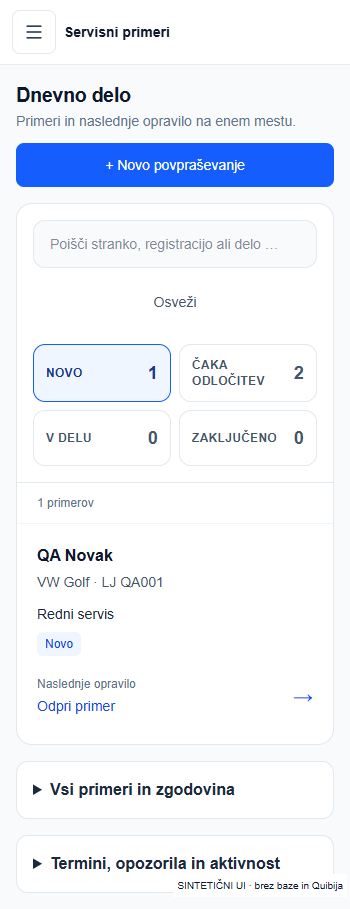
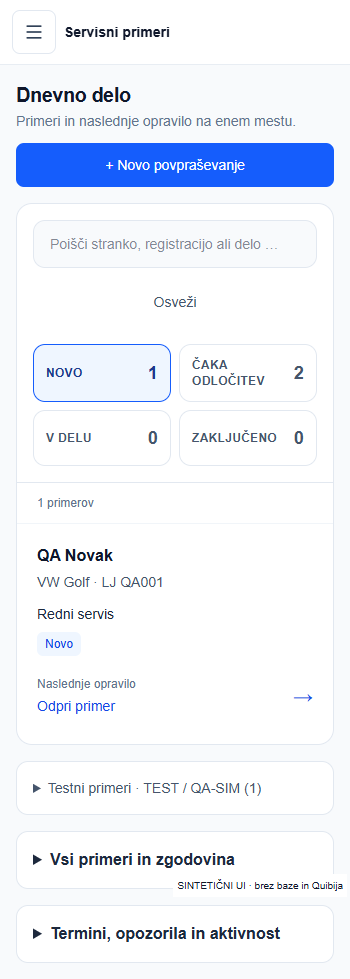
fix: separate synthetic cases from daily workshop work

diff --git a/src/components/dashboard/DashboardPageClient.tsx b/src/components/dashboard/DashboardPageClient.tsx
@@ -1,7 +1,7 @@
 "use client";
 
 import Link from "next/link";
-import {dashboardQueue, filterDashboardQueue, DASHBOARD_GROUPS, type DashboardGroup} from "@/lib/dashboard/intake-queue";
+import {dashboardQueue, isSyntheticOrder, shortNextAction, filterDashboardQueue, DASHBOARD_GROUPS, type DashboardGroup} from "@/lib/dashboard/intake-queue";
 import {useRouter} from "next/navigation";
 import { useEffect, useMemo, useState, useTransition } from "react";
 import type { DashboardPeriodId, DashboardSnapshot, WorkflowStatusId } from "@/lib/dashboard/types";
@@ -28,7 +28,9 @@ export function DashboardPageClient({ initialData }: DashboardPageClientProps) {
   useEffect(()=>{let lastRefresh=Date.now();const refresh=()=>{const active=document.activeElement;if(document.visibilityState!=='visible'||active?.matches('input,textarea,select,[contenteditable="true"]')||Date.now()-lastRefresh<15000)return;lastRefresh=Date.now();startRefresh(()=>router.refresh());};const timer=window.setInterval(refresh,30000);window.addEventListener('focus',refresh);document.addEventListener('visibilitychange',refresh);return()=>{clearInterval(timer);window.removeEventListener('focus',refresh);document.removeEventListener('visibilitychange',refresh)}},[router]);
   const [queueGroup,setQueueGroup]=useState<DashboardGroup>('new');
   const [queueSearch,setQueueSearch]=useState('');
-  const queue=useMemo(()=>initialData.ok?dashboardQueue(initialData.orders):[],[initialData]);
+  const testOrders=useMemo(()=>initialData.ok?initialData.orders.filter(isSyntheticOrder):[],[initialData]);
+  const testIds=new Set(testOrders.map(order=>order.serviceRequestId));
+  const queue=useMemo(()=>initialData.ok?dashboardQueue(initialData.orders.filter(order=>!isSyntheticOrder(order))):[],[initialData]);
   const visibleQueue=filterDashboardQueue(queue,queueGroup,queueSearch);
   const [period, setPeriod] = useState<DashboardPeriodId>("vsi");
   const [statusFilter, setStatusFilter] = useState<WorkflowStatusId | "all">(
@@ -38,7 +40,7 @@ export function DashboardPageClient({ initialData }: DashboardPageClientProps) {
 
   const orders = useMemo(() => {
     if (!initialData.ok) return [];
-    return initialData.orders.filter((o) =>
+    return initialData.orders.filter((o) => !isSyntheticOrder(o)&&
       isDateInPeriod(o.updatedAt, period, now),
     );
   }, [period, now, initialData]);
@@ -55,9 +57,9 @@ export function DashboardPageClient({ initialData }: DashboardPageClientProps) {
     });
   }, [orders]);
 
-  const attention = initialData.ok ? initialData.attention : [];
+  const attention = initialData.ok ? initialData.attention.filter(item=>!testIds.has(item.id)) : [];
 
-  const appointments = initialData.ok ? initialData.appointments : [];
+  const appointments = initialData.ok ? initialData.appointments.filter(item=>!item.simulated&&!testIds.has(item.id)&&!/^(?:QA-SIM(?:\b|[-_])|TEST(?:[-_\s:]|$))/i.test(item.customerName.trim())) : [];
 
   const activity = useMemo(() => {
     if (!initialData.ok) return [];
@@ -115,14 +117,15 @@ export function DashboardPageClient({ initialData }: DashboardPageClientProps) {
           </div>
         </div>
         <p role="status" className="px-5 py-3 text-xs text-slate-500">{visibleQueue.length} primerov{queueSearch.trim()?' za iskanje »'+queueSearch.trim()+'«':''}</p>
-        {visibleQueue.length ? <ul className="divide-y divide-slate-100 border-t border-slate-100">{visibleQueue.map(({order:o,label,href})=><li key={o.serviceRequestId} className="px-5 py-5 transition-colors hover:bg-slate-50/70">
+        {visibleQueue.length ? <ul className="divide-y divide-slate-100 border-t border-slate-100">{visibleQueue.map(item=>{const {order:o,href}=item;return <li key={o.serviceRequestId} className="px-5 py-5 transition-colors hover:bg-slate-50/70">
           <div className="grid gap-3 lg:grid-cols-[minmax(0,1fr)_minmax(0,1fr)_minmax(0,1fr)] lg:items-center lg:gap-6">
             <div className="min-w-0"><p className="font-semibold text-slate-900">{o.customerName}</p><p className="mt-1 text-sm text-slate-600">{o.vehicleMakeModel}{o.registration&&<span className="ml-2 font-medium text-slate-800">{o.registration}</span>}</p></div>
             <div className="min-w-0"><p className="line-clamp-2 text-sm text-slate-800">{o.requestSummary}</p><span className={'mt-2 inline-block rounded-md px-2 py-1 text-xs font-medium '+getStatusBadgeClass(o.status)}>{getStatusLabel(o.status)}</span></div>
-            <Link href={href} className="group flex min-h-11 items-center justify-between gap-3 rounded-lg py-2 text-sm font-medium text-blue-700 focus-visible:outline-2 focus-visible:outline-blue-600"><span><span className="mb-1 block text-xs font-normal text-slate-500">Naslednje opravilo</span>{label}</span><span aria-hidden="true" className="text-xl transition-transform group-hover:translate-x-1">→</span></Link>
+            <Link href={href} className="group flex min-h-11 items-center justify-between gap-3 rounded-lg py-2 text-sm font-medium text-blue-700 focus-visible:outline-2 focus-visible:outline-blue-600"><span><span className="mb-1 block text-xs font-normal text-slate-500">Naslednje opravilo</span>{shortNextAction(item)}</span><span aria-hidden="true" className="text-xl transition-transform group-hover:translate-x-1">→</span></Link>
           </div>
-        </li>)}</ul> : <div className="border-t border-slate-100 px-5 py-12 text-center"><p className="font-medium text-slate-700">{queueSearch.trim()?'Ni zadetkov za to iskanje.':'V tej skupini trenutno ni primerov.'}</p><p className="mt-1 text-sm text-slate-500">{queueSearch.trim()?'Poskusite drugo ime, registracijo ali opis dela.':'Izberite drugo skupino ali dodajte novo povpraševanje.'}</p></div>}
+        </li>})}</ul> : <div className="border-t border-slate-100 px-5 py-12 text-center"><p className="font-medium text-slate-700">{queueSearch.trim()?'Ni zadetkov za to iskanje.':'V tej skupini trenutno ni primerov.'}</p><p className="mt-1 text-sm text-slate-500">{queueSearch.trim()?'Poskusite drugo ime, registracijo ali opis dela.':'Izberite drugo skupino ali dodajte novo povpraševanje.'}</p></div>}
       </section>
+      {testOrders.length>0&&<details className="rounded-xl border border-slate-200 bg-white p-4"><summary className="cursor-pointer text-sm font-medium text-slate-600">Testni primeri · TEST / QA-SIM ({testOrders.length})</summary><p className="mt-2 text-sm text-slate-500">Ločeni od dnevnega dela in števcev. Ti podatki niso izbrisani.</p><ul className="mt-3 divide-y divide-slate-100">{testOrders.map(order=><li key={order.serviceRequestId??order.id} className="py-3 text-sm"><Link className="inline-flex min-h-11 items-center text-blue-700 underline" href={'/dashboard/primeri/'+order.serviceRequestId}>{order.customerName} · {order.vehicleMakeModel} · {order.requestSummary}</Link></li>)}</ul></details>}
       <details className="rounded-xl border border-slate-200 bg-white p-4">
         <summary className="cursor-pointer font-semibold text-slate-800">Vsi primeri in zgodovina</summary>
         <p className="my-3 text-sm text-slate-600">Dodatni pregled po obdobju in statusu, vključno z zaključenimi primeri. Skupine zgoraj prikazujejo primere iz vseh obdobij.</p>

diff --git a/src/components/dashboard/EstimateComposer.tsx b/src/components/dashboard/EstimateComposer.tsx
@@ -45,7 +45,7 @@ export function EstimateComposer({serviceRequestId,mode,offerPrepared=true,write
   {locked&&<section role="alert" className="space-y-2 rounded border border-amber-300 p-3 text-sm"><p>{operationState==='verified'?'Predračun že obstaja.':'Prejšnji poskus ustvarjanja zahteva pregled.'} Ponovno ustvarjanje je ustavljeno.</p>{['uncertain','dispatching'].includes(operationState??'')&&<button type="button" disabled={pending} onClick={()=>{if(lock.current)return;lock.current=true;start(async()=>{try{const r=await reconcileQuibiEstimate(serviceRequestId);setMessage(r.message);if(r.ok)router.refresh();}finally{lock.current=false;}});}} className="min-h-11 rounded border px-3 py-2">Preveri obstoječi dokument</button>}</section>}
   {document&&<section role="status" className="space-y-2 rounded border border-green-300 p-3"><p>Predračun #{document.id} obstaja v Quibiju. Ni poslan.</p><a className="block text-blue-700 underline" href={`/dashboard/stranke/${document.customerId}/quibi/predracuni/${document.id}`}>Odpri predračun</a>{!document.linked&&<p>Povezava s primerom zahteva pregled. Ne ustvarjajte novega dokumenta.</p>}</section>}
   {!configured&&<p role="alert" className="text-sm text-amber-900">Quibijevih podatkov za pripravo trenutno ni mogoče prebrati. Osvežite stran ali preverite dostop do Quibija; podatkov ne vnašajte znova.</p>}
-  {configured&&!catalogOptions.length&&<p role="status" className="text-sm text-amber-900">Storitve so pripravljene spodaj. Dopolnite manjkajoče količine in cene; katalog trenutno ni na voljo.</p>}
+  {configured&&!ready&&!catalogOptions.length&&<p role="status" className="text-sm text-amber-900">Storitve so pripravljene spodaj. Dopolnite manjkajoče količine in cene; katalog trenutno ni na voljo.</p>}
   <fieldset disabled={pending||dispatchStarted} className="min-w-0 space-y-4">
   {!ready?<>
    <input type="hidden" name="catalogLines" value={JSON.stringify(rows)}/><input type="hidden" name="unitId" value={catalogOptions.find(o=>o.key===rows[0]?.key)?.unitId??rows[0]?.unitId??''}/><input type="hidden" name="vatId" value={catalogOptions.find(o=>o.key===rows[0]?.key)?.vatId??rows[0]?.vatId??''}/>

diff --git a/src/lib/dashboard/intake-queue.ts b/src/lib/dashboard/intake-queue.ts
@@ -66,3 +66,13 @@ export function filterDashboardQueue(rows:DashboardQueueItem[],group:DashboardGr
  const query=search.trim().toLocaleLowerCase('sl-SI');
  return rows.filter(row=>row.group===group&&(!query||[row.order.id,row.order.customerName,row.order.registration,row.order.vehicleMakeModel,row.order.requestSummary].join(' ').toLocaleLowerCase('sl-SI').includes(query)));
 }
+
+
+/** Explicit test markers only: normal words/names containing 'test' are not hidden. */
+export function isSyntheticOrder(order:ServiceOrderDemo){return order.synthetic===true||[order.customerName,order.requestSummary].some(value=>/^(?:QA-SIM(?:\b|[-_])|TEST(?:[-_\s:]|$))/i.test(value.trim()));}
+export function shortNextAction(item:DashboardQueueItem){
+ const anchor=item.href.split('#')[1];
+ if(item.group==='done')return 'Odpri primer';
+ if(item.order.nextActionKind==='review_quibi_mismatch')return 'Preveri dokument';
+ return ({podatki:'Preveri podatke','quibi-povezava':'Preveri povezavo',predracun:'Pripravi predračun','pregled-predracuna':'Preglej predračun',odobritev:'Zabeleži odgovor',termini:'Uredi dogovor',popravilo:item.group==='work'?'Odpri delo':'Preglej delo','objavljena-cena':'Preglej storitev'} as Record<string,string>)[anchor]??'Odpri primer';
+}

diff --git a/src/lib/dashboard/intake-queue.test.ts b/src/lib/dashboard/intake-queue.test.ts
@@ -68,3 +68,11 @@ test('dashboard attention and mismatches stay visible as decisions even after bo
  const rows=dashboardQueue([order('attention','termin_potrjen',{requiresAttention:true}),order('mismatch','aktivno_popravilo',{nextActionKind:'review_quibi_mismatch'}),order('unlinked','zakljuceno',{serviceRequestId:undefined})]);
  assert.deepEqual(rows.map(r=>r.group),['decision','decision']);assert.equal(rows.length,2);
 });
+
+
+import {isSyntheticOrder,shortNextAction} from './intake-queue.ts';
+test('only explicit QA-SIM/TEST markers leave normal daily work; data stays accessible',()=>{
+ for(const patch of [{customerName:'TEST-AUTOSERVIS-SELAN-1'},{requestSummary:'QA-SIM-PR19'},{synthetic:true}])assert.equal(isSyntheticOrder(order('x','novo',patch)),true);
+ for(const customerName of ['QA Novak','Testar Janez','Atest d.o.o.'])assert.equal(isSyntheticOrder(order('x','novo',{customerName})),false);
+ const rows=dashboardQueue([order('x','priprava_ponudbe',{nextActionKind:'review_estimate'})]);assert.equal(shortNextAction(rows[0]),'Preglej predračun');
+});

diff --git a/src/lib/dashboard/adapt-dashboard.ts b/src/lib/dashboard/adapt-dashboard.ts
@@ -13,6 +13,7 @@ export type ServiceRequestRow = {
   vehicle_id: string | null;
   status: string;
   summary: string;
+  problem_description?: string|null;
   next_action: string | null;
   attention_needed: boolean;
   attention_reason: string | null;
@@ -72,6 +73,7 @@ export function adaptServiceRequestToOrder(
     vehicleMakeModel: vehicleMakeModel(vehicle),
     registration: vehicle?.registration_current?.trim() || undefined,
     requestSummary: row.summary,
+    synthetic:[row.summary,row.problem_description,customer?.display_name].some(value=>/^(?:QA-SIM(?:\b|[-_])|TEST(?:[-_\s:]|$))/i.test(value?.trim()??'')),
     intakeConnectionLabel:stepInput.intakeConnectionLabel,
     status: uiStatus,
     nextActionLabel: nextCaseStep({ ...stepInput, status: row.status }).label,

diff --git a/src/lib/dashboard/load-dashboard-snapshot.ts b/src/lib/dashboard/load-dashboard-snapshot.ts
@@ -70,6 +70,7 @@ export async function loadDashboardSnapshot(): Promise<DashboardSnapshot> {
           "vehicle_id",
           "status",
           "summary",
+          "problem_description",
           "next_action",
           "attention_needed",
           "attention_reason",

diff --git a/src/lib/dashboard/types.ts b/src/lib/dashboard/types.ts
@@ -33,6 +33,7 @@ export interface ServiceOrderDemo {
   vehicleMakeModel: string;
   registration?: string;
   requestSummary: string;
+  synthetic?: boolean;
   intakeConnectionLabel?:string;
   status: WorkflowStatusId;
   nextActionLabel: string;

diff --git a/docs/tadej-p0-postopek.md b/docs/tadej-p0-postopek.md
@@ -1,77 +1,24 @@
-# Tadej: od novega povpraševanja do naloga
+# Tadej: vsakodnevno delo
 
-**Stanje 22. 10. 2026:** navodila za kodo v tem PR; trenutni naslov in commit DEV Previewa sta navedena v opisu PR. Dejanska sintetična Quibi DEV veriga je potrjena: predračun #2176924 → delovni nalog #2176925 → račun #2176926, vsak 45,99 EUR; testno pošiljanje #277127 je končalo s stanjem failed. Celoten prijavljeni uporabniški postopek ostaja nepreverjen. Spodnji posnetki so dejanski Playwright posnetki delovnega prostora in obstoječih komponent obrazcev v izoliranem prikazu; niso posnetki prijavljenega primera ali dokaz ustvarjenih dokumentov.
+Odpri [DEV aplikacijo](https://selan-dev-pr19-azalar7-langs-projects.vercel.app/dashboard). Ta različica uporablja Quibi DEV. Ni produkcija.
 
-[Aktualni dejanski rezultat, nalog/račun in blokade Quibi DEV](qa/selan-estimate-workspace/quibi-business-2026-10-22.md).
+1. Na nadzorni plošči izberi **Novo**, **Čaka odločitev**, **V delu** ali **Zaključeno**. Išči po stranki, vozilu ali delu. Odpri primer oziroma njegovo naslednje opravilo.
+2. V primeru so na vrhu stranka, vozilo, želje stranke in pripravljeni podatki. Glavni gumb odpre trenutno opravilo. Če osnovni podatki še niso potrjeni, uredi samo manjkajoče podatke istega primera.
+3. Pri predračunu so zahtevane storitve že razdeljene v vrstice. Zanesljiva ujemanja dobijo Quibijeve cene. Če katalog ni na voljo, storitve ostanejo kot proste postavke: dopolni manjkajočo količino in dogovorjeno ceno. Aplikacija cen in neznanih količin ne ugiba. Enota, DDV, vrsta prodaje in skladišče se prevzamejo iz potrjenih nastavitev.
+4. Izberi **Preglej predračun**, nato **Ustvari predračun**. Podatki in zneski se preverijo v ozadju. Tega istega pregleda ni treba ponovno potrjevati po uspešnem ustvarjanju. Če ustvarjanje ni omogočeno, piše **Samo predogled – ustvarjanje v Quibiju ni omogočeno**.
+5. Ustvarjen predračun še ni poslan in še ni odobren od stranke. Quibi DEV e-pošte ne pošilja. Dejanski odgovor zabeleži ločeno pri **Zabeleži odobritev stranke** z dokazljivo referenco. Za test uporabljaj samo izrecno označeno odločitev **QA-SIM** na sintetičnem primeru.
+6. Po odobritvi izberi **Ustvari delovni nalog**. Postavk ne prepisuj: prevzamejo se iz preverjenega predračuna. Vodja dodeli delo mehaniku. Mehanik v **Moje delo** izbere **Začni delo**, doda opombo ali zasebno fotografijo in ob koncu izbere **Končaj delo · predaj vodji**. To še ne izda računa, ne potrdi plačila ali prevzema. Vodja opravi poslovni pregled, račun in zaključek po obstoječem postopku.
 
-## Priprava predračuna: običajna pot
+Ročno povezovanje ID-ja je samo v **Napredno – poveži obstoječ predračun**, kadar že imaš dokument izven aplikacije. Ni obvezno. Pri neznanem izidu ne ustvarjaj ali pošiljaj znova; preveri obstoječi poskus.
 
-1. Odpri **Pripravi predračun**. Stranka in vozilo ostaneta iz potrjenega primera. V enem urejevalniku so vse navedene zahteve, postavke, količine, cene, popusti in predvideni skupni znesek. Jasna ujemanja iz dostopnega Quibi kataloga so že izpolnjena; pri nejasni vrstici izberi predlog ali dopolni prosto storitveno postavko. Če katalog ni na voljo, ostanejo vse zahtevane storitve pripravljene, manjkajoči količina in cena pa prazni.
-2. Popravi le potrebno količino ali ceno. Različni ceni sta prikazani pri postavki. Cena zalogovnega artikla ostane omejena na preverjeno pot Quibi; tega opozorila ne obidi z drugim povpraševanjem.
-3. Klikni **Preglej predračun**. Aplikacija sama pripravi obstoječe podatke in preveri aktualne cene; ločena priprava in ponovno potrjevanje stranke/vozila nista potrebna. V pregledu lahko izbereš **Uredi postavke**.
-4. Če je ustvarjanje omogočeno, klikni **Ustvari predračun**. Če piše **Samo predogled – ustvarjanje v Quibiju ni omogočeno**, dokument ni ustvarjen. Pregled in ustvarjanje ne pošljeta predračuna stranki.
+## Kaj je dejansko preverjeno
 
-Obstoječi predračun, ustvarjen zunaj aplikacije, povežeš samo po potrebi v zaprtem razdelku **Napredno – poveži obstoječ predračun**. To ni obvezna pot priprave. Pri neznanem izidu CREATE izberi **Osveži in preveri izid**; novega dokumenta ne ustvarjaj znova.
+V Quibi DEV so s tremi prostimi storitvami dejansko ustvarjeni, ponovno prebrani in povezani **predračun #2176929 → nalog #2176930 → račun #2176931**, vsak **65,00 EUR**. Cene 30/20/15 EUR in količine 1 so izrecni sintetični testni vnosi, ne servisni cenik. Odobritev je shranjena kot QA-SIM, zaključek dela v API preizkusu je sintetična testna predpostavka. Ni dokaz dejanskega popravila ali odgovora resnične stranke. Nič ni poslano.
 
-Naslednji posnetek je hidriran sintetični preizkus dejanskega urejevalnika, ne posnetek prijavljene gostovane seje:
+**Celoten prijavljeni E2E, vključno s shranjevanjem mehanikovih opomb/fotografij in zaključkom prek dejanske seje, ostaja nepreverjen.** Spodaj so posnetki resničnih komponent v izoliranem sintetičnem prikazu. [Rezultati in omejitve](qa/selan-redesign/README.md).
 
-![En urejevalnik pri 390 px](qa/selan-estimate-workspace/editor-390.png)
+![Dnevno delo, sintetični prikaz](qa/selan-redesign/dashboard-1440.png)
 
-[Preverjanje in točne omejitve prijavljenega pregleda](qa/selan-estimate-workspace/README.md).
+![Predračun s prosto storitvijo, sintetični prikaz 390 px](qa/selan-estimate-workspace/free-service-390.png)
 
-1. Na nadzorni plošči v **Dnevno delo** poišči primer in klikni njegovo naslednje opravilo. Čakalna vrsta prikazuje vse odprte primere; filtriraj jih po vrsti dela ali išči po stranki, registraciji, številki oziroma storitvi. **Osveži dnevno delo** ponovno prebere trenutno stanje. Spodnji pregled po obdobju je dodatni pregled, tudi za zaključene primere. Na vrhu primera je **Kaj je naslednje?**, en moder gumb za naslednje opravilo. Nad opravili je vedno viden povzetek: stranka, vozilo, želja stranke in seznam manjkajočih osnovnih podatkov. Trenutni obrazec je takoj pod povzetkom, označen z **Nadaljujte tukaj**. Ko se po shranjevanju osveži stanje primera, se naslednje opravilo preračuna iz tega stanja; sam klik gumba še ne potrdi uspeha. Ostala opravila so zložena in jih lahko odpreš. Gumb te odpelje do ustreznega obrazca; sam še ničesar ne pošlje ali ustvari.
-2. Če piše **Preveri stranko in vozilo**, preveri povezavo s Quibijem. Primerjaj stranko in pravo vozilo. Če ustvarjanje ali povezava nista dovoljena, upoštevaj prikazani razlog; potreben je lastnik ali skrbnik.
-3. Pri **Preveri podatke** preveri opis, kontakt in vozilo. V Tadejevem pregledu označi potrditev in klikni **Sprejmi primer za pripravo ponudbe**. To sprejme primer in pripravi podatke; še ne ustvari predračuna.
-4. **Pripravi predračun** odpre enoten urejevalnik zgoraj. Ob kliku **Preglej predračun** se priprava podatkov izvede samodejno. Predogled ni dokument; ustvarjanje potrdiš šele iz pregleda, kadar je omogočeno.
-5. **Preglej in potrdi predračun** odpre dejanske postavke, znesek in pregled. Potrdi **Odobri predračun**. S tem dokument še ni poslan in stranka še ni naročila popravila.
-6. **Pošlji predračun** je ločeno dejanje in zahteva omogočen SEND ter preverjeno vsebino in prejemnika. Quibi DEV e-pošte ne pošilja; v DEV nadaljuj z ločeno zabeleženim odgovorom oziroma označeno sintetično odobritvijo QA-SIM. Dokument zato ni označen kot poslan. Če pošiljanje ni omogočeno, dokument ni poslan. Pri neznanem izidu ne ponavljaj pošiljanja.
-7. **Zabeleži odobritev stranke** odpre odločitev za to različico predračuna. Vnesi sledljiv dejanski odgovor, tudi po telefonu, in potrdi odločitev. Status pošiljanja ni odobritev. Pri sintetičnih testih uporabljaj samo označeno simulacijo QA-SIM.
-8. Po veljavni odobritvi **Pripravi delovni nalog** oziroma **Ustvari delovni nalog** odpre obstoječi poslovni obrazec. Prevzame podatke preverjenega predračuna. Pred ustvarjanjem preveri pogoje. Če WRITE ni omogočen, nalog ni ustvarjen. Ko nalog že obstaja, gumb vodi na njegov pregled oziroma popravilo.
-
-**Če obstaneš:** rumeno pojasnilo pod glavnim gumbom pove razlog in naslednjo pot. Podatkov, ki so že shranjeni, ne vnašaj v novo povpraševanje. Dnevniki, dokumenti, AI in tehnična aktivacija ostajajo dostopni v podrobnostih. Ročni termini so ločeni; ta popravek ne uvaja novega sistema terminov.
-
-## Mehanik: dodeljeno delo
-
-Mehanik v **Moje dodeljeno delo** odpre svoj dodeljeni primer. Povzetek pokaže vozilo in registracijo, stanje dela ter naslednje opravilo za mehanika. Pod njim sta **Težava** in, če je v primeru vneseno, **Zahtevano delo in navodila**. Postavke dela in materiala se berejo iz preverjenega Quibijevega naloga; če sveže branje ni mogoče, to prikaz pove. Tak prikaz ni potrditev razpoložljivosti delov.
-
-Izberi **Začni delo** za začetek. V **Zabeleži opravljeno delo** izberi napredek, dodaj opombo in klikni **Shrani napredek in opombo**. Fotografiranje oziroma izbira iz galerije je takoj za tem, pred zgodovino zapiskov. Dodaj opis in klikni **Shrani fotografijo**; za več fotografij ponovi. Fotografije so zasebne. Če nalaganje ni potrjeno, preveri obstoječo datoteko v prikazanem seznamu nedokončanih nalaganj, preden jo nalagaš znova.
-
-Ko je delo opravljeno, izberi **Zaključi delo** oziroma shrani napredek **Delo opravljeno**. To preda delo vodji; ne izda računa, ne potrdi plačila ali prevzema in ne pošlje sporočila. Naslednje navodilo mehaniku ostaja vezano na njegovo delo; poslovni pregled in zaključek ureja vodja. Pri zaključenem primeru sta običajna obrazca za napredek in novo fotografijo skrita; ponovno obravnavo lahko odpre vodja.
-
-## Novi predogledi primera in mehanika
-
-Naslednja posnetka sta **hidrirana sintetična predogleda komponent** pri širini 390 px. Prikazujeta povzetek primera oziroma mehanikov povzetek z navodilom za naslednje opravilo. **Nista posnetka prijavljene dejanske aplikacije. Celoten E2E z dejansko aplikacijo, zaledjem, bazo in Quibijem ostaja nepreverjen.**
-
-![Povzetek primera, sintetični predogled 390 px](qa/selan-p0-2026-10-22/followup/case-390.png)
-
-![Mehanikovo delo, sintetični predogled 390 px](qa/selan-p0-2026-10-22/followup/mechanic-390.png)
-
-## Posnetki izolirane komponente
-
-Novo povpraševanje, 1440 px:
-
-![Novo povpraševanje, izolirani UI](qa/selan-p0-2026-10-22/new-1440.png)
-
-Novo povpraševanje, 350 px:
-
-![Glavni gumb pri 350 px, izolirani UI](qa/selan-p0-2026-10-22/new-350.png)
-
-Nepotrjena povezava vozila:
-
-![Pojasnilo blokade, izolirani UI](qa/selan-p0-2026-10-22/identity-390.png)
-
-Priprava naloga ob izključenem WRITE:
-
-![Priprava ni ustvarjen nalog, izolirani UI](qa/selan-p0-2026-10-22/order-390.png)
-
-Priložen je [kratek video UX navigacije](qa/selan-p0-2026-10-22/ui-navigation.webm). Prikazuje štiri ločena sintetična stanja in odpiranje obrazcev; poslovni gumbi so v prikazu izključeni. **To ni video dokončanega postopka ali E2E.** [Dokazi in omejitve preverjanja](qa/selan-p0-2026-10-22/README.md).
-
-## Trenutni obrazci po kliku glavnega gumba
-
-![Sprejem istega primera, 350 px](qa/selan-p0-2026-10-22/new-form-350.png)
-
-![Priprava predračuna, sintetični vhodi](qa/selan-p0-2026-10-22/prepare-form-1440.png)
-
-![Obstoječi obrazec Quibi naloga, WRITE izključen](qa/selan-p0-2026-10-22/order-form-390.png)
-
-Lokalni UX predogled brez poslovnih zapisov: `node scripts/qa-case-journey.mjs --serve`, nato `http://127.0.0.1:47866/?case=new`. Prikaz ni prijavljena DEV aplikacija.
+![Mehanikovo delo, sintetični prikaz 350 px](qa/selan-redesign/mechanic-350.png)

diff --git a/docs/qa/selan-redesign/README.md b/docs/qa/selan-redesign/README.md
@@ -1,25 +1,64 @@
 # PR #19 – poenostavitev delovnega prostora
 
-Nadzorna plošča: Novo, Čaka odločitev, V delu, Zaključeno; eno iskanje in naslednje opravilo pri primeru. Primer: povzetek, zahtevane/pripravljene storitve, eno glavno dejanje; ostale vsebine ostanejo zložene. Mehanik: vozilo, dodeljeno delo, začetek, opomba/fotografija in zaključek.
+**Aktualni Preview:** https://selan-dev-pr19-azalar7-langs-projects.vercel.app/dashboard
 
-Predračun ohrani vse zahtevane storitve. Kadar katalog nima zanesljive postavke, uporabnik dopolni prosto storitev, manjkajočo količino in ceno. Cene niso ocenjene. Strežnik ponovno preveri enote, DDV, zneske in identiteto ter ohrani dnevnik proti dvojnemu CREATE. Privzete nastavitve so veljavne samo, če obstajajo v svežih Quibijevih šifrantih.
+Runtime commit `4534563b34ce63fbcd86a24c80b7562b3cca24db`; deployment `dpl_GAFtXJZWzBKfA8RoNcrqeWtdPVKf`, READY. Preverjena ekipa `team_2OC48hyth331W4Z02Cei2ZTL` / `azalar7-langs-projects`, projekt `prj_OSpIMwU9zkrcImKhGxpaq8PnrgUU` / `avtoservis-selan-dev`. Stabilni DEV alias kaže na ta deployment. Kasnejši commiti vsebujejo le dokazila/teste/navodila.
 
-DEV pošiljanje ni pogoj za nadaljevanje. Dokument ni označen kot poslan; dejanska ali označena sintetična odločitev se zabeleži ločeno. Pošiljanje 277127 ni ponovljeno.
+## Kaj sedaj opravi Selan
 
-## Dokazi in omejitve
+Štiri skupine, eno iskanje in en vnos na dashboardu. Primer pokaže zahtevano delo, pripravljene podatke in eno naslednje opravilo; brez velikih sedmih faz. Sekundarni podatki ostajajo zloženi. Mehanik vidi vozilo, delo in neposredna začetek/zaključek.
 
-- 21 testov urejevalnika in strežniških vrstic: uspešno, vključno s tremi prostimi storitvami brez branja kataloga, napačnimi enotami/DDV, praznimi cenami/količinami in preračunom zneskov.
-- 42 scenarijev primera pri 1440/390/350 px: uspešno; [rezultati](../selan-p0-2026-10-22/browser-results.json).
-- Posnetki izoliranih dejanskih komponent uporabljajo izključno sintetične podatke in niso dokaz prijavljenega E2E.
-- Prijavljeni uporabniški E2E ostaja nepreverjen: povezava do uporabnikove prijavljene IAB seje ni dostopna avtomatizaciji; ločen brskalnik nima seje. To ni trditev, da uporabnik nima dostopa.
-- Raziskava Evoca ni bila najdena v dostopnih projektnih dokumentih; nobena ugotovitev ni pripisana Evoci.
+Predračun ohrani vse zahtevane storitve. Zanesljiva ujemanja uporabijo katalog; ostale postanejo proste storitve z manjkajočo količino/ceno. Ni prepisovanja stranke/vozila ali obveznega ID-ja dokumenta. Potrjen pregled istega zahtevka se po uspešnem CREATE ponovno uporabi. Odločitev stranke ostaja ločena.
+
+## Dejanski Quibi DEV preizkus – 22. 10. 2026, 19:17 UTC
+
+[Strojni rezultat iz Vercel build loga](quibi-dev-free-result.json).
+
+Sintetični primer `c7156f6e-76ca-48b3-8cc0-202610220040`, ista preverjena sintetična stranka/vozilo kot predhodni DEV preizkus. Tri PROSTE vrstice: servis vozila, pregled pred tehničnim, pregled zavor; izrecne operatorske testne bruto cene 30/20/15 EUR, količine 1. To niso ocenjene ali katalogizirane servisne cene.
+
+| Dokument | Dejanski ID | Številka | Znesek | Stanje |
+|---|---|---|---|---|
+| Predračun | 2176929 | 281/2026 | 65,00 EUR | verified, povezan |
+| Delovni nalog | 2176930 | 271/2026 | 65,00 EUR | verified, povezan |
+| Račun | 2176931 | DELAVNICA-A-26000260 | 65,00 EUR | verified, povezan |
+
+CREATE, ponovno branje vsebine/cen/enot/DDV/identitete in povezava dokumentov so dejanski API/DB postopki. Interni pregled in **izrecno sintetična QA-SIM odobritev** sta shranjena prek obstoječih RPC. Nobene dostave, dejanskega odgovora stranke, dejanskega popravila ali plačila nismo potrdili. Račun uporablja izrecno sintetično predpostavko zaključenega dela; mehanikova prijavljena pot ni del tega API preizkusa.
+
+### Popravljena integracijska napaka
+
+[Quibijeva dokumentacija](https://navodila.quibi.net/za-razvijalce/) za proste vrstice navaja `cenaZDDV` kot neto ceno enote. Dejanski DEV je to polje prezrl in shranil ničle. `cena` ni pomagala; izrecni `cenaBrezDDV` je popravil isti znani sintetični predračun 2176927 na 65,00 EUR. Skupni gradnik sedaj v nespremenljiv zahtevek vključi **oba enaka neto podatka**, zavrne nasprotujoča podatka in še vedno preveri dejanski rezultat. Nato je NOV CREATE 2176929 uspel brez popravljanja dokumenta.
+
+Prvotni diagnostični sintetični primer `...0030`: predračun 2176927 je po preverjenem popravku verified, začetni neuspeli cenovni UPDATE ostaja uncertain kot revizijska sled; prvotni nalog 2176928 ostaja uncertain zaradi cenovne razlike in ni veljaven dokaz uspeha. Novega CREATE za ta isti nalog nismo ponavljali. Uspešna celotna dokumentna veriga zgoraj pripada ločenemu, jasno označenemu končnemu testnemu primeru `...0040`.
+
+`GET /api2/sifranti` HTTP 500 ostaja težava ponudnika; razpoložljivi cenik ne vsebuje vseh treh zahtevanih storitev. Fallback prostih postavk omogoča nadaljevanje brez ugibanja cen. [Pripravljeno tehnično sporočilo, ni poslano](../selan-estimate-workspace/quibi-developer-message.md).
+
+Quibi DEV po pojasnilu uporabnika ne pošilja e-pošte. SEND je v novem Previewu 0, WRITE DEV 1 po obstoječi odobritvi; produkcijska in lokalna WRITE/SEND sta 0. Pošiljanje 277127 ni ponovljeno. Dokumenti niso označeni kot poslani.
+
+## Preverjanje in posnetki
+
+- 34 testov pogodb, priprave, prenosa vrstic in poslovnih dokumentov: uspešno, tudi cenovni polji, zaokroževanje, zaščita pred dvojnim CREATE, neznani izidi in napačna identiteta.
+- 15 testov naslednjega opravila, 11 testov vrste primerov in 10 urejevalnika: uspešno.
+- TypeScript trenutnih projektnih izvorov in gostovani Next build: uspešno. Lokalni začasni TS config izključi samo generirane deployment arhive iz preverjanja. ESLint spremenjenih komponent in Quibi poti: uspešno.
+- [42 scenarijev primera](../selan-p0-2026-10-22/browser-results.json) pri 1440/390/350: uspešno; en CTA, pravilni obrazci, fokus, zaznamki, brez prelivanja.
+- [Nadzorna plošča in mehanik](shell-browser-results.json): 6 prikazov pri 1440/390/350, brez prelivanja/napak strani; začetek ter zaključek z opombo sta preverjena v sintetičnem UI; interakcije uporabljajo sintetične nadomestke strežniških dejanj.
+- [Urejevalnik predračuna](../selan-estimate-workspace/browser-results.json): 1440/390/350, ena običajna forma, ohranjene storitve, pregled proste vrstice, brez ponovnih checkboxov, brez prelivanja.
+- [Dejanska prijavna stran novega Previewa](preview-login.png): zaščiteni dashboard preusmeri neprijavljeno testno sejo na /login. To ni Vercel zaščitna prijava.
+
+**Celoten prijavljeni uporabniški E2E ostaja NEPREVERJEN.** Uporabnik ima svojo prijavljeno IAB sejo; njene avtomatizacijske povezave ni mogoče uporabiti. Ločen Playwright nima seje. Ni dokazov o dejanski oddaji novega spletnega povpraševanja, mehanikovem shranjevanju opomb/fotografij in zaključku prek prijavljenega brskalnika v tej izvedbi. API dokumentna veriga in izolirane UI interakcije zgoraj so ločena dokaza.
+
+Evoca raziskava je bila 23. 10. najdena in prebrana na `C:/Users/Admin/avtoservis-selan/docs/evoca-rea-ux-audit.md`. Notranji B2B UI ni preverjen; promocijskih zaslonov ne kopiramo. Upoštevani so predlogi za en primarni korak, manj podvojenega vnosa in ločen mobilni pogled. Ni novih odvisnosti, migracij, sprememb RLS/auth, produkcijske objave ali merge.
+
+[Navodila za Tadeja](../../tadej-p0-postopek.md).
 
 ## Prebrana pravila in uporabljene veščine
 
 Aktivni worktree: `C:/Users/Admin/.codex/worktrees/selan-p0-guided-case/m3-m4-ci-db-tests-v1`.
-Prebrano: `AGENTS.md`, `CLAUDE.md`, `node_modules/next/dist/docs/01-app/02-guides/forms.md`, `node_modules/next/dist/docs/01-app/03-api-reference/01-directives/use-client.md` in `docs/dashboard-v1-preservation.md` v tem worktreeju; `C:/Users/Admin/.ai-os/ORCHESTRATION_GUIDE.md`.
-Veščine: `C:/Users/Admin/.agents/skills/ai-orchestrator/SKILL.md`, `product-designer/SKILL.md`, `security-review/SKILL.md`, `superpowers/dispatching-parallel-agents/SKILL.md`, `superpowers/verification-before-completion/SKILL.md`, `deploy-to-vercel/SKILL.md` (isti koren); Vercel `C:/Users/Admin/.codex/plugins/cache/openai-curated-remote/vercel/0.54.1/skills/deployments-cicd/SKILL.md`.
+Prebrano v njem: `AGENTS.md`, `CLAUDE.md`, `node_modules/next/dist/docs/01-app/02-guides/forms.md`, `node_modules/next/dist/docs/01-app/03-api-reference/01-directives/use-client.md`, `docs/dashboard-v1-preservation.md`; globalno `C:/Users/Admin/.ai-os/ORCHESTRATION_GUIDE.md`.
+Veščine pod `C:/Users/Admin/.agents/skills/`: `ai-orchestrator/SKILL.md`, `product-designer/SKILL.md`, `security-review/SKILL.md`, `superpowers/dispatching-parallel-agents/SKILL.md`, `superpowers/verification-before-completion/SKILL.md`, `deploy-to-vercel/SKILL.md`.
+Vercel: `C:/Users/Admin/.codex/plugins/cache/openai-curated-remote/vercel/0.54.1/skills/deployments-cicd/SKILL.md`, `C:/Users/Admin/.codex/plugins/cache/openai-curated-remote/vercel/0.54.1/skills/env-vars/SKILL.md`, `C:/Users/Admin/.codex/plugins/cache/openai-curated-remote/vercel/0.54.1/skills/vercel-cli/SKILL.md`; Supabase: `C:/Users/Admin/.codex/plugins/cache/openai-curated-remote/supabase/1.0.0/skills/supabase/SKILL.md`.
 
-- TypeScript za trenutne projektne izvore: uspešno (`qa-visual/tsconfig-current.json`, izključeni samo generirani arhivski deploymenti). ESLint spremenjenih komponent in Quibi poti: uspešno.
-- Hidrirani prikazi nadzorne plošče in mehanika: 6/6 pri 1440/390/350; brez prelivanja in napak strani.
-- Predračun: vse tri širine, en obrazec, pregled proste storitve, brez podvojenih potrditev, brez prelivanja.
+## Nadaljevanje 23. 10. 2026
+
+TEST/QA-SIM primeri so ločeni od vseh štirih glavnih števcev in zgodovine dnevnega dela; ostanejo v zaprtem testnem razdelku. Naslednja dejanja na glavnih vrsticah so kratka. Po pregledu predračuna se ne prikazuje več zastarelo navodilo za dopolnitev manjkajočih cen. Quibi logika/WRITE/SEND in že ustvarjeni dokumenti niso ponovno izvedeni.
+
+[Točna ovira in kratek ročni E2E za Tadeja](manual-e2e-2026-10-23.md). 26 dodatnih ciljnih testov uspešno; preverjena Realtime objava vseh petih operativnih tabel, brez sprememb baze. Dejanski prenos dogodkov in shranjevanje v prijavljeni seji sta nepreverjena.

diff --git a/docs/qa/selan-redesign/manual-e2e-2026-10-23.md b/docs/qa/selan-redesign/manual-e2e-2026-10-23.md
@@ -1,0 +1,23 @@
+# Kratek ročni E2E – Tadej in mehanik
+
+## Natančna ovira avtomatizacije
+
+23. 10. 2026: dostop do uporabnikove odprte prijavljene IAB seje prek CUA odpove že pri inicializaciji: `failed to write kernel assets: The system cannot find the path specified. (os error 3)`. Ločen Playwright nima aplikacijske seje in /dashboard preusmeri na /login. Ne gre za manjkajoči Vercel scope. Gesel ali piškotkov ne prenašamo. Prijava, shranjevanje v bazo/fotografije in resnični dogodki med dvema prijavljenima sejama zato niso potrjeni s tem brskalnikom.
+
+## Preizkus (izključno DEV, približno 10 minut)
+
+1. Tadej odpre [DEV](https://selan-dev-pr19-azalar7-langs-projects.vercel.app/dashboard), se prijavi z obstoječim povabljenim računom in osveži stran. TEST/QA-SIM primeri so samo v zloženem razdelku **Testni primeri**, brez vpliva na štiri glavne števce.
+2. Oddaj eno novo spletno povpraševanje z oznako `QA-SIM-MANUAL-20261023-01` in izključno sintetičnimi kontaktnimi podatki ter testnim vozilom. Navedi tri storitve: servis vozila, pregled pred tehničnim pregledom, pregled zavor. Na dashboardu ga poišči med **Testni primeri** in odpri. Za Quibi del uporabi obstoječo preverjeno TEST-AUTOSERVIS-SELAN stranko/testno vozilo; če povezava še ni potrjena, jo uredi prek glavnega gumba, brez posega v resnične stranke.
+3. Preveri tri ohranjene storitve, obstoječe podatke stranke/vozila in prazne neznane cene/količine. Za ta test izrecno vnesi količine 1 in testne bruto cene 30/20/15 EUR. Pregled mora pokazati 65,00 EUR. Klikni **Ustvari predračun** samo enkrat. Zapiši pravi Quibi ID; osveži stran. Isti ID in postavke morajo ostati. Če je izid neznan, prekini in preveri dnevnik; ne ustvarjaj znova.
+4. Zabeleži **sintetično** odobritev z referenco `QA-SIM-MANUAL-20261023-01`. To ni resnični odgovor stranke. DEV e-pošta ni pogoj. Ustvari nalog enkrat in ga dodeli aktivnemu povabljenemu testnemu mehaniku.
+5. Mehanik se v svojem običajnem brskalniku prijavi in v **Moje delo** odpre dodeljeni primer. Klikne **Začni delo**, shrani opombo `QA-SIM: pregled za test`, doda eno sintetično sliko (brez ljudi, tablic resničnih vozil ali dokumentov). Po potrditvi osveži stran: opomba, fotografija in status morajo ostati.
+6. Tadej ima isti primer odprt v drugem oknu. Po shranjevanju opombe/fotografije/statusa se prikaz osveži sam. Med tipkanjem v polje se osvežitev odloži, po izhodu iz polja pa se sprememba prikaže. Osveži tudi ročno in preveri iste shranjene podatke. Če se sam ne posodobi, zapiši čas, vlogo in stran; ne podvajaj shranjevanja.
+7. Mehanik izbere **Končaj delo · predaj vodji**. Tadej po sintetičnem pregledu zaključenega dela uporabi obstoječi poslovni korak za račun. Ustvari račun enkrat, zapiši ID, osveži stran in preveri 65,00 EUR ter povezavo na isti primer. Ne potrjuj plačila/prevzema brez testnega dokazila. Ne pošiljaj sporočil.
+
+**Obstoječih dokumentov 2176929 / 2176930 / 2176931 ne ustvarjaj ponovno.** Ti so že potrjena ločena API testna veriga s tremi prostimi postavkami. Nov manualni primer zgoraj je namenjen samo prvemu dejanskemu prijavljenemu preizkusu UI; če oznaka že obstaja, nadaljuj isti primer in preveri obstoječe ID-je.
+
+## Kaj je že preverjeno brez prijave
+
+26 testov ločevanja testnih podatkov, napredka/opomb, zasebnih fotografij, dostopa in osveževalnika: uspešno. Vseh pet operativnih tabel je dejansko v `supabase_realtime`: service_requests, service_case_assignments, service_case_notes, service_case_photos, service_case_reviews. To potrjuje nastavitev objave, ne dostave dogodkov v prijavljeno sejo.
+
+Namizni/mobilni posnetki dashboarda, predračuna in mehanika uporabljajo prave komponente s sintetičnimi nadomestki dejanj, ne prijavljene aplikacije. Preverjeni so 1440, 390 in 350 px, odpiranje testnega razdelka, ročna osvežitev, začetek ter zaključek z opombo. Prava API veriga v [rezultatu](quibi-dev-free-result.json) je bila izvedena 22. 10.; 23. 10. je ne ponavljamo.
